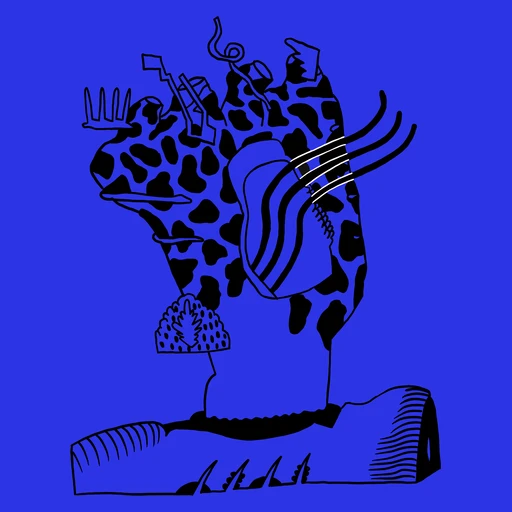
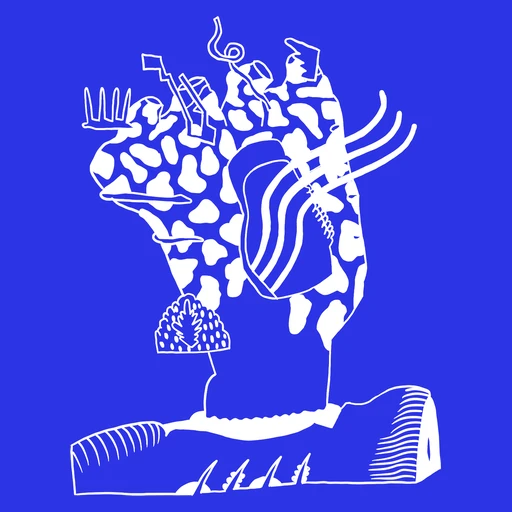
Volume 3 cover: white lines instead of black (staging)
Harrison's drawing recoloured to white, same transparency and placement; it
also reads on the dark header volume menu now. Alt text says "white line drawing".

Changed region(s): [[0.125, 0.0312, 0.875, 0.9688]]

diff --git a/_volumes/es/wilder-journal-03.md b/_volumes/es/wilder-journal-03.md
@@ -6,7 +6,7 @@ volume-number: 3
 title: "AngustIAs Democráticas: Futuros del Cuidado"
 uid: wilder-journal-3
 cover:
-  alt: "Un dibujo en blanco y negro: una cabeza con manchas de jirafa llena de herramientas y zarcillos que sale de una bota — Wilder Journal #3 de Platoniq"
+  alt: "Un dibujo de líneas blancas: una cabeza con manchas de jirafa llena de herramientas y zarcillos que sale de una bota — Wilder Journal #3 de Platoniq"
   credits: "Wilder Journal #3 by Platoniq"
   path: /media/volumes/heroes/cover-03.webp
   mobile: /media/volumes/mobile/cover-03.webp
@@ -15,5 +15,5 @@ locale: es
 description: "AngustIAs democráticas: futuros del cuidado"
 image:
   path: /media/volumes/social/cover-03.webp
-  alt: "Un dibujo en blanco y negro: una cabeza con manchas de jirafa llena de herramientas y zarcillos que sale de una bota — Wilder Journal #3 de Platoniq"
+  alt: "Un dibujo de líneas blancas: una cabeza con manchas de jirafa llena de herramientas y zarcillos que sale de una bota — Wilder Journal #3 de Platoniq"
 ---

diff --git a/_volumes/en/wilder-journal-03.md b/_volumes/en/wilder-journal-03.md
@@ -6,7 +6,7 @@ volume-number: 3
 title: "Democratic AInxieties: Caring Futures"
 uid: wilder-journal-3
 cover:
-  alt: "A black-and-white drawing: a giraffe-spotted head full of tools and tendrils rising from a boot — Wilder Journal #3 by Platoniq"
+  alt: "A white line drawing: a giraffe-spotted head full of tools and tendrils rising from a boot — Wilder Journal #3 by Platoniq"
   credits: "Wilder Journal #3 by Platoniq"
   path: /media/volumes/heroes/cover-03.webp
   mobile: /media/volumes/mobile/cover-03.webp
@@ -15,5 +15,5 @@ locale: en
 description: "Democratic AInxieties: Caring Futures"
 image:
   path: /media/volumes/social/cover-03.webp
-  alt: "A black-and-white drawing: a giraffe-spotted head full of tools and tendrils rising from a boot — Wilder Journal #3 by Platoniq"
+  alt: "A white line drawing: a giraffe-spotted head full of tools and tendrils rising from a boot — Wilder Journal #3 by Platoniq"
 ---
